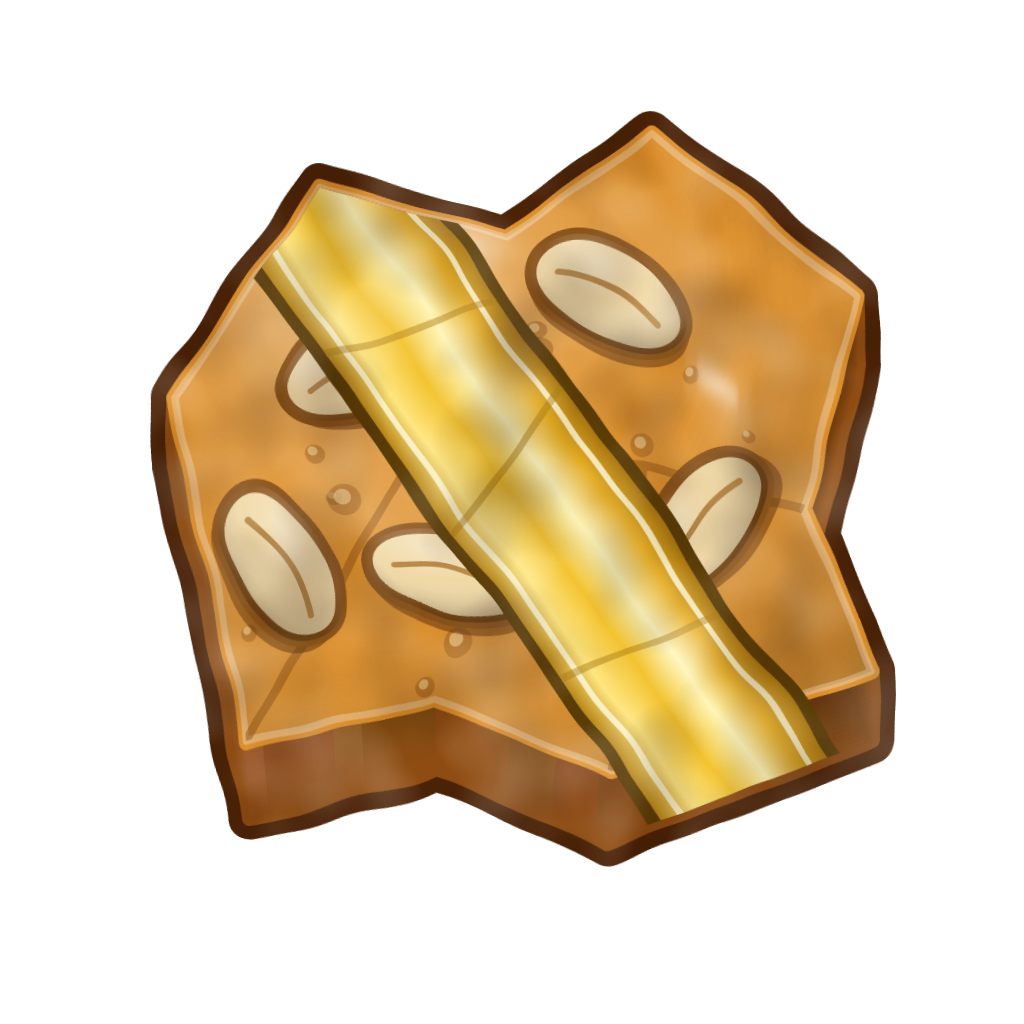
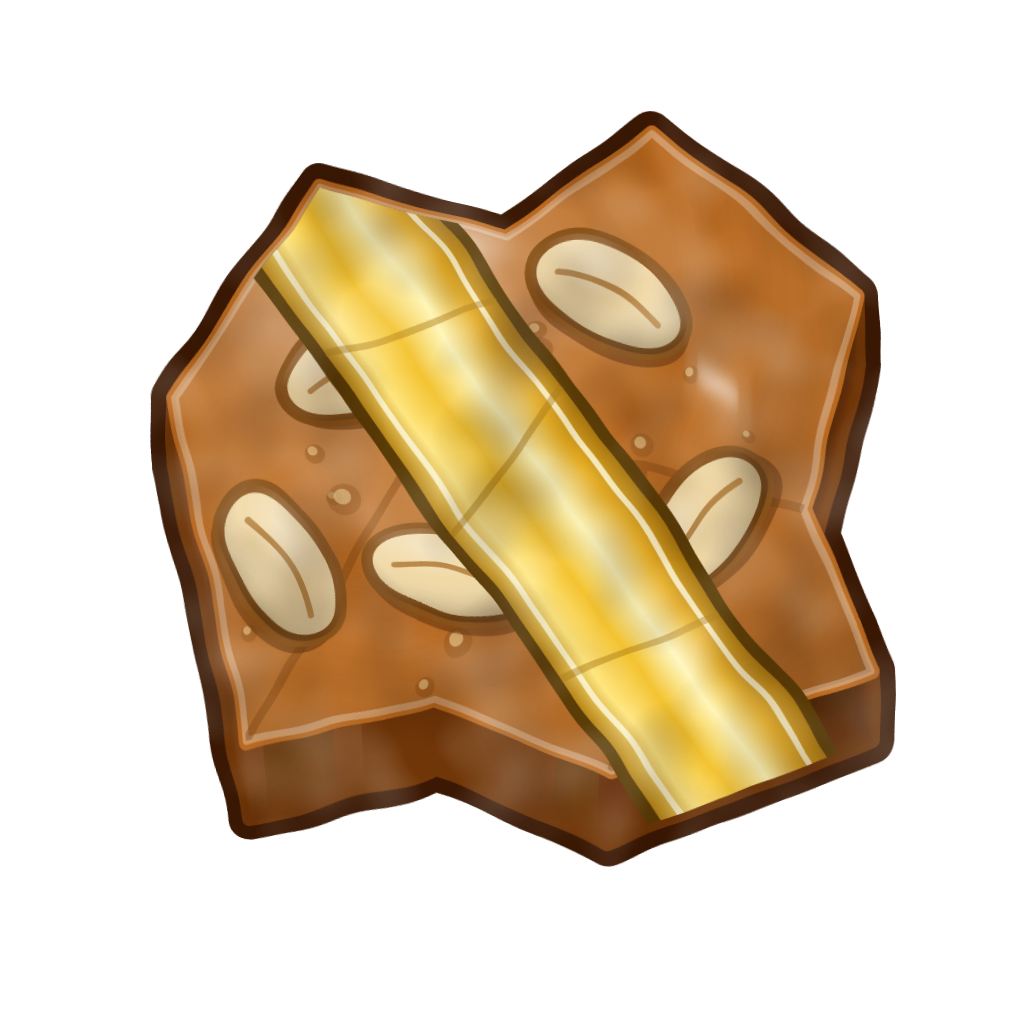
Blitzrunde, geführte erste Züge, Vorschau in der Bestellleiste, Prompts für gemalte Pralinen
- Blitzrunde: 30 Züge auf Punkte mit eigenem Bestwert, neben der Tagesschachtel
- Neue Spieler: vier Schritte am Spielfeld statt Regel-Dialog
- Beim Ziehen zeigt die Bestellleiste, was der Zug bringt; Lieferung lässt
  die Leiste aufleuchten; Vibration steigt mit der Serie
- Krokant dunkler als Karamell, Eiskonfekt-Zahl und Teile in der Ablage größer
- art/PROMPTS.md: Stil-Vorspann und Motive für einen Bildgenerator

Zuglimit und P(s) bleiben unverändert (Begründung in docs/playtest).

Claude-Session: https://claude.ai/code/session_01YDDbMkut7raAPq9iGCkgbn

diff --git a/index.html b/index.html
@@ -79,7 +79,7 @@ header{margin-top:auto;width:var(--bw);display:flex;justify-content:space-betwee
   background:radial-gradient(circle,rgba(16,42,74,.62) 0 21%,rgba(16,42,74,0) 34%);text-shadow:0 1px 2px #06182e,0 0 5px #06182e}
 .prl.hot{animation:hot .7s infinite}
 @keyframes hot{50%{filter:drop-shadow(0 0 2px #ff2f6e) drop-shadow(0 0 6px #ff4f84)}}
-.piece .prl[data-t]::before,.demo .prl[data-t]::before{font-size:calc(var(--bw)*.03)}
+.piece .prl[data-t]::before,.demo .prl[data-t]::before{font-size:calc(var(--bw)*.038);background:radial-gradient(circle,rgba(16,42,74,.7) 0 30%,rgba(16,42,74,0) 46%)}
 #drag .prl[data-t]::before{font-size:calc(var(--bw)*.052)}
 .ghost{opacity:.6}
 .pop{animation:pop .38s ease-out forwards}
@@ -89,7 +89,7 @@ header{margin-top:auto;width:var(--bw);display:flex;justify-content:space-betwee
 .melt{animation:mlt .5s ease-out}
 @keyframes mlt{0%{transform:scale(1.5);filter:brightness(2)}100%{transform:scale(1);filter:brightness(1)}}
 /* Ablage + Teile */
-.tray{width:var(--bw);flex:0 1 calc(var(--bw)*.42);min-height:calc(var(--bw)*.3);display:flex;align-items:stretch;margin-top:12px;gap:4px}
+.tray{width:var(--bw);flex:0 1 calc(var(--bw)*.48);min-height:calc(var(--bw)*.3);display:flex;align-items:stretch;margin-top:12px;gap:4px}
 .slot{flex:1;position:relative;display:flex;align-items:center;justify-content:center;cursor:grab;border-radius:16px}
 .slot.hold{background:rgba(255,250,244,.7);box-shadow:inset 0 0 0 2px var(--line);margin-right:4px}
 .slot.hold::before{content:"Ablage";position:absolute;top:5px;left:0;right:0;text-align:center;font-size:11px;letter-spacing:1px;text-transform:uppercase;color:var(--mut);font-weight:800}
@@ -105,6 +105,16 @@ header{margin-top:auto;width:var(--bw);display:flex;justify-content:space-betwee
 .slot.nofit.rotfit .piece{opacity:.8;filter:grayscale(.35)}
 .slot.rotfit::after{content:"↻";position:absolute;right:4px;bottom:4px;width:24px;height:24px;border-radius:50%;background:var(--rose);color:#fff;font-size:15px;font-weight:900;display:flex;align-items:center;justify-content:center;box-shadow:0 2px 0 #a8355a;animation:bmp .9s infinite;pointer-events:none}
 .slot.dragging::after{display:none}
+/* Vorschau in der Bestellleiste: was der Zug unter dem Finger bringt */
+.gl .pv{font-style:normal;font-size:13px;font-weight:900;color:#fff;background:var(--ok);border-radius:9px;padding:1px 6px;margin-left:2px}
+#order.deliv{animation:dlv .9s ease-out}
+@keyframes dlv{0%{box-shadow:0 2px 0 var(--line)}25%{transform:scale(1.04);box-shadow:0 0 0 4px var(--gold),0 0 22px var(--gold)}100%{box-shadow:0 2px 0 var(--line)}}
+/* Geführte erste Züge: das Element, um das es gerade geht, pulsiert */
+.coach{animation:coach 1.2s ease-in-out infinite}
+#tray.coach{border-radius:18px}
+@keyframes coach{50%{box-shadow:0 0 0 3px var(--rose),0 0 16px var(--rose)}}
+.hint.big{font-size:15px;line-height:1.3;color:var(--ink)}
+@media (max-height:600px){.card{padding:14px 16px}.btn{padding:10px 14px;margin-top:8px}.card .t{font-size:26px}}
 @media (max-height:660px){.hero{display:none}}
 .piece.spin{animation:spin .22s ease-out}
 @keyframes spin{from{transform:rotate(-90deg) scale(.8)}to{transform:none}}
@@ -153,7 +163,7 @@ header{margin-top:auto;width:var(--bw);display:flex;justify-content:space-betwee
 .qs h4{margin:0 0 3px;font-size:11px;letter-spacing:1.5px;text-transform:uppercase;color:var(--mut);display:flex;justify-content:space-between}
 .qs h4 b{color:var(--goldt);font-size:13px;letter-spacing:0}
 .q{display:flex;justify-content:space-between;gap:8px;padding:3px 0}.q b{white-space:nowrap}.q.ok{color:var(--ok)}
-.dots{letter-spacing:3px;color:var(--gold)}
+.dots{letter-spacing:1px;color:var(--gold)}
 .lbl{font-size:12px;color:var(--mut);font-weight:800}
 .over.full{background:var(--cream);align-items:flex-start;overflow:auto;z-index:50;touch-action:pan-y}
 .over.full .card{box-shadow:none;background:none;max-height:none;margin:auto;animation:none;padding:14px 8px}
@@ -184,7 +194,7 @@ textarea{font:inherit;font-size:13px;width:100%;height:64px;border:2px solid var
 <button id="upd" type="button" hidden>Neue Version – tippen zum Aktualisieren</button>
 <script>
 (function(){
-const N=8,R=8,TIMER=9,MAXROT=9;   // N Spalten, R Zeilen
+const N=8,R=8,TIMER=9,MAXROT=9,BLITZ=30;   // N Spalten, R Zeilen
 document.documentElement.style.setProperty('--rows',R);document.documentElement.style.setProperty('--rr',R/N);
 const RAW=["X","XX","X\nX","XXX","X\nX\nX","XXXX","X\nX\nX\nX","XXXXX","X\nX\nX\nX\nX","XX\nXX","XXX\nXXX\nXXX",
 "XX\nX.","XX\n.X","X.\nXX",".X\nXX","XXX\nX..","XXX\n..X","X..\nXXX","..X\nXXX","X.\nX.\nXX",".X\n.X\nXX","XX\nX.\nX.","XX\n.X\n.X",
@@ -203,7 +213,7 @@ const cellEls=[];for(let i=0;i<N*R;i++){const d=document.createElement('div');d.
 
 // ===== Speicher =====
 function ls(k,v){try{if(v===undefined)return JSON.parse(localStorage.getItem(k));if(v===null)localStorage.removeItem(k);else localStorage.setItem(k,JSON.stringify(v))}catch(e){return null}}
-const M=Object.assign({bestStage:1,theme:0,mute:false,seenHelp:false,games:0,daily:{d:'',best:0},streak:{d:'',n:0},ach:{},stars:0,cup:0,q:{d:'',p:{},got:[0,0,0],all:0},pt:true},ls('cs_meta')||{});
+const M=Object.assign({bestStage:1,theme:0,mute:false,seenHelp:false,games:0,daily:{d:'',best:0},streak:{d:'',n:0},ach:{},stars:0,cup:0,blitz:0,tut:-1,q:{d:'',p:{},got:[0,0,0],all:0},pt:true},ls('cs_meta')||{});
 let best=parseInt(ls('cs_best'))||0;
 function saveMeta(){ls('cs_meta',M)}
 function saveRun(){if(G&&!G.over)ls('cs_run_'+G.mode,G)}
@@ -244,7 +254,7 @@ function ptExport(){ptFlush();const text=PTL.map(x=>JSON.stringify(x)).join('\n'
   const a=document.createElement('a');a.href=URL.createObjectURL(new Blob([text],{type:'text/plain'}));a.download=name;a.click()}
 function endRun(){pt('over',{mode:G.mode,score:G.score,stage:G.stage,moves:G.stats.moves,why:G.over,sec:G.ts?Math.round((Date.now()-G.ts)/1000):0});qTick({games:1});ptFlush()}
 // Spielstand als Code mitnehmen (Browser → installierte App; auf dem iPhone haben beide getrennte Speicher)
-const SAVE_KEYS=['cs_best','cs_meta','cs_run_saison','cs_run_tag'];
+const SAVE_KEYS=['cs_best','cs_meta','cs_run_saison','cs_run_tag','cs_run_blitz'];
 function saveCode(){saveRun();const o={};SAVE_KEYS.forEach(k=>{try{const v=localStorage.getItem(k);if(v!=null)o[k]=v}catch(e){}});return'TB1.'+btoa(unescape(encodeURIComponent(JSON.stringify(o))))}
 function loadCode(c){try{c=String(c).trim();if(c.slice(0,4)!=='TB1.')return false;const o=JSON.parse(decodeURIComponent(escape(atob(c.slice(4)))));let n=0;
   Object.keys(o).forEach(k=>{if(SAVE_KEYS.includes(k)){JSON.parse(o[k]);localStorage.setItem(k,o[k]);n++}});return n>0}catch(e){return false}}
@@ -300,10 +310,10 @@ function isDead(){const tr=G.tray.filter(Boolean),all=G.hold?tr.concat([G.hold])
 
 function startGame(mode){const d=today();
   G={mode,day:d,rs:mode==='tag'?(parseInt(d.replace(/-/g,''))*2654435761)|0:(Math.random()*2**32)|0,board:Array(N*R).fill(null),tray:[],hold:null,score:0,streak:0,stage:1,hearts:3,rot:3,order:null,
-    stats:{moves:0,lines:0,pure:0,orders:0,melted:0,saved:0},over:false,ts:Date.now()};
+    stats:{moves:0,lines:0,pure:0,orders:0,melted:0,saved:0},over:false,ts:Date.now()};if(mode==='blitz')G.bl=BLITZ;
   newOrder();G.tray=newTray();M.games++;saveMeta();saveRun();pt('start',{mode});enter()}
 function enter(){$('menu').classList.add('hidden');$('over').classList.add('hidden');document.body.classList.add('ingame');
-  $('hint').style.opacity=G.stats.moves<4?1:0;$('hint').innerHTML='Teile in die Schachtel ziehen · <b>Antippen</b> dreht ein Teil (↻)';stuckShown=false;renderAll()}
+  $('hint').style.opacity=G.stats.moves<4?1:0;$('hint').innerHTML='Teile in die Schachtel ziehen · <b>Antippen</b> dreht ein Teil (↻)';stuckShown=false;$('hint').classList.remove('big');[$('tray'),$('order'),$('box')].forEach(e=>e.classList.remove('coach'));renderAll();if(M.tut>=0&&M.tut<4)coach()}
 
 function place(i,r,c){const pc=i===3?G.hold:G.tray[i],placed=new Set(),b=G.board;
   pc.cells.forEach(([dr,dc],k)=>{const idx=(r+dr)*N+c+dc;b[idx]=k===pc.tm?{c:pc.c,t:TIMER}:{c:pc.c};placed.add(idx)});
@@ -321,7 +331,7 @@ function place(i,r,c){const pc=i===3?G.hold:G.tray[i],placed=new Set(),b=G.board
     if(pure)msgs.push(['zählt doppelt','sm']);else if(saved)msgs.push(['Eiskonfekt gerettet','sm']);
     if(n>=3&&G.rot<MAXROT){G.rot++;msgs.push(['+1 ↻','sm'])}
     if(b.every(v=>v==null)){empty=true;pts+=150;msgs.push(['Alles verpackt! +150','sm'])}
-    sfx('clear',G.streak+n);buzz(n>1?[20,40,20]:20)}
+    sfx('clear',G.streak+n);buzz(n>1||G.streak>2?[20,40,20,40,Math.min(20+10*G.streak,60)]:G.streak>1?[20,40,20]:20)}
   else{G.streak=0;sfx('plop');buzz(8)}
   if(melted.size){msgs.push(['Geschmolzen!','sm bad']);sfx('bad');shake()}
   G.order.goals.forEach(g=>{if(gain[g.c])g.have+=gain[g.c]});G.order.left--;
@@ -333,17 +343,19 @@ function place(i,r,c){const pc=i===3?G.hold:G.tray[i],placed=new Set(),b=G.board
   else if(G.order.left<=0){pt('order',{ok:0,stage:G.stage});G.hearts--;msgs.push(['Bestellung geplatzt! −1 ♥','sm bad']);sfx('bad');shake();if(G.hearts>0)newOrder()}
   setScore(G.score+pts,true);checkAch(n,empty);if(G.mode==='tag')bumpStreak();qTick({lines:n,pure,orders:conf?1:0,multi:n>=2?1:0});
   if(G.tray.every(t=>!t))G.tray=newTray();
-  if(G.hearts<=0)G.over='herz';else if(isDead())G.over='voll';
-  if(G.stats.moves>=4)$('hint').style.opacity=0;
+  if(G.mode==='blitz')G.bl--;
+  if(G.hearts<=0)G.over='herz';else if(G.mode==='blitz'&&G.bl<=0)G.over='zeit';else if(isDead())G.over='voll';
+  if(G.stats.moves>=4&&!(M.tut>=0&&M.tut<4))$('hint').style.opacity=0;
   renderBoard(cleared,placed,melted,newBlk);renderTray();renderOrder(gain);
-  if(FX){cleared.forEach((v,k)=>burstCell(k,v));msgs.forEach(([t,cls],q)=>setTimeout(()=>toast(t,cls),q*260));if(conf)confetti()}
+  if(FX){cleared.forEach((v,k)=>burstCell(k,v));msgs.forEach(([t,cls],q)=>setTimeout(()=>toast(t,cls),q*260));if(conf){confetti();const o=$('order');o.classList.remove('deliv');void o.offsetWidth;o.classList.add('deliv');buzz([30,50,30,50,60])}}
+  $('box').classList.remove('coach');if(n)coach('line');coach('place');
   if(G.over){ls('cs_run_'+G.mode,null);endRun();setTimeout(showOver,FX?900:0)}else saveRun()}
 function toHold(i){const pc=G.tray[i];G.tray[i]=G.hold;G.hold=pc;sfx('pick');pt('hold');
   if(G.tray.every(t=>!t))G.tray=newTray();
   if(isDead()){G.over='voll';ls('cs_run_'+G.mode,null);endRun();setTimeout(showOver,700)}else saveRun();renderTray()}
 function rotate(i){const pc=i===3?G.hold:G.tray[i];if(!pc)return;const r=rotated(pc);if(key(r)===key(pc))return;
   if(G.rot<=0){toast('Keine Drehung mehr','sm bad');return sfx('bad')}
-  G.rot--;if(i===3)G.hold=r;else G.tray[i]=r;sfx('pick');pt('rot');saveRun();renderTray();renderOrder();
+  G.rot--;if(i===3)G.hold=r;else G.tray[i]=r;sfx('pick');pt('rot');coach('rot');saveRun();renderTray();renderOrder();
   const el=slotEls[i].querySelector('.piece');if(el)el.classList.add('spin')}
 
 // ===== Darstellung =====
@@ -355,19 +367,33 @@ function renderBoard(cleared,placed,melted,newBlk){for(let i=0;i<N*R;i++){const 
 function makePiece(pc,pitch,size){let h='<div class="piece" style="width:'+((pc.w-1)*pitch+size)+'px;height:'+((pc.h-1)*pitch+size)+'px">';
   pc.cells.forEach(([r,c],k)=>h+='<div style="left:'+c*pitch+'px;top:'+r*pitch+'px;width:'+size+'px;height:'+size+'px">'+node(k===pc.tm?{c:pc.c,t:TIMER}:{c:pc.c})+'</div>');return h+'</div>'}
 function renderTray(){const m=metrics(),sw=slotEls[0].getBoundingClientRect().width;slotEls.forEach((s,i)=>{const pc=i===3?G.hold:G.tray[i];s.classList.remove('nofit','rotfit','dragging','tgt');
-  const k=pc?Math.min(.7,sw*.94/(Math.max(pc.w,pc.h)*m.pitch)):0;   // kleine Teile größer zeigen, lange passen trotzdem in den Platz
+  const k=pc?Math.min(.8,sw*.94/(Math.max(pc.w,pc.h)*m.pitch)):0;   // kleine Teile größer zeigen, lange passen trotzdem in den Platz
   s.innerHTML=pc?makePiece(pc,m.pitch*k,m.size*k):'';if(pc&&!canFit(pc)){s.classList.add('nofit');if(G.rot>0&&!G.over&&canFitRot(pc))s.classList.add('rotfit')}});stuckHint()}
+// Geführte erste Züge statt Regel-Dialog: 0 legen · 1 drehen · 2 Reihe verpacken · 3 Bestellung · 4 fertig
+const COACH=['<b>Zieh ein Teil</b> in die Schachtel','<b>Tippe ein Teil an</b> – es dreht sich (kostet eine Drehung ↻)','Fülle eine <b>ganze Reihe</b> oder Spalte – sie wird verpackt','Oben steht die <b>Bestellung</b>: Sorten sammeln, bevor die Züge ausgehen'];
+let coachAt=0;
+function coach(ev){if(M.tut<0||M.tut>3)return;const was=M.tut;
+  if(M.tut===0&&ev==='place')M.tut=1;
+  else if(M.tut===1&&(ev==='rot'||(ev==='place'&&G.stats.moves-coachAt>=2)))M.tut=2;
+  else if(M.tut===2&&ev==='line')M.tut=3;
+  else if(M.tut===3&&ev==='place'&&G.stats.moves-coachAt>=3)M.tut=4;
+  if(M.tut!==was){coachAt=G.stats.moves;if(M.tut===4)M.seenHelp=true;saveMeta();pt('tut',{s:M.tut})}
+  const h=$('hint'),t=M.tut;[$('tray'),$('order')].forEach(e=>e.classList.remove('coach'));
+  if(t>3){h.classList.remove('big');h.style.opacity=0;return}
+  if(!stuckShown){h.innerHTML=COACH[t];h.classList.add('big');h.style.opacity=1}
+  (t===3?$('order'):t<2?$('tray'):$('box')).classList.add('coach');if(t===2)$('tray').classList.remove('coach')}
 // Passt kein Teil so, wie es liegt, sagt der Hinweis, was noch geht (drehen oder Ablage) – sonst wirkt das Spiel eingefroren.
 let stuckShown=false;
 function stuckHint(){const h=$('hint'),ps=G.tray.concat([G.hold]).filter(Boolean),st=!G.over&&ps.length>0&&!ps.some(canFit);
-  if(st){const rot=G.rot>0&&ps.some(canFitRot);h.innerHTML=rot?'Kein Teil passt so · ein Teil mit ↻ <b>antippen</b> dreht es (↻'+G.rot+')':'Kein Teil passt · das letzte Teil in die <b>Ablage</b> ziehen';h.style.opacity=1;if(!stuckShown)pt('stuck',{rot:G.rot,stage:G.stage});stuckShown=true}
-  else if(stuckShown){h.style.opacity=0;stuckShown=false}}
-function renderOrder(gain){const o=G.order;$('hearts').innerHTML='♥'.repeat(Math.max(0,G.hearts))+'<i>'+'♥'.repeat(3-Math.max(0,G.hearts))+'</i>';
-  $('goals').innerHTML=o.goals.map(g=>{const d=g.have>=g.need;return'<div class="gl'+(d?' done':'')+(gain&&gain[g.c]?' bump2':'')+'" title="'+NAMES[g.c]+'"><span class="ic">'+node({c:g.c})+'</span>'+(d?'✓':g.need-g.have)+'</div>'}).join('');
+  if(st){const rot=G.rot>0&&ps.some(canFitRot);h.innerHTML=rot?'Kein Teil passt so · ein Teil mit ↻ <b>antippen</b> dreht es (↻'+G.rot+')':'Kein Teil passt · das letzte Teil in die <b>Ablage</b> ziehen';h.classList.remove('big');h.style.opacity=1;if(!stuckShown)pt('stuck',{rot:G.rot,stage:G.stage});stuckShown=true}
+  else if(stuckShown){h.style.opacity=0;stuckShown=false;coach()}}
+function renderOrder(gain,pv){const o=G.order;$('hearts').innerHTML='♥'.repeat(Math.max(0,G.hearts))+'<i>'+'♥'.repeat(3-Math.max(0,G.hearts))+'</i>';
+  $('goals').innerHTML=o.goals.map(g=>{const d=g.have>=g.need;return'<div class="gl'+(d?' done':'')+(gain&&gain[g.c]?' bump2':'')+'" title="'+NAMES[g.c]+'"><span class="ic">'+node({c:g.c})+'</span>'+(d?'✓':g.need-g.have)+(pv&&pv[g.c]&&!d?'<i class="pv">−'+Math.min(pv[g.c],g.need-g.have)+'</i>':'')+'</div>'}).join('');
   $('mvN').textContent=Math.max(0,o.left);$('mv').classList.toggle('low',o.left<=3);$('rotN').textContent='↻'+G.rot;
-  $('stageT').textContent='Bestellung '+G.stage;$('sub').textContent=G.over==='x'?'Truffle Box':(G.mode==='tag'?'Tagesschachtel · ':'')+CUST[o.cust]}
+  $('stageT').textContent='Bestellung '+G.stage;$('sub').textContent=G.over==='x'?'Truffle Box':G.mode==='blitz'?'Blitzrunde · noch '+Math.max(0,G.bl)+(G.bl===1?' Zug':' Züge'):(G.mode==='tag'?'Tagesschachtel · ':'')+CUST[o.cust]}
 function setScore(v,bump){G.score=v;const e=$('score');e.textContent=v;
   if(G.mode==='tag'){if(M.daily.d!==G.day)M.daily={d:G.day,best:0};if(v>M.daily.best){M.daily.best=v;saveMeta()}$('best').textContent='Tagesbestwert '+M.daily.best}
+  else if(G.mode==='blitz'){if(v>(M.blitz||0)){M.blitz=v;saveMeta()}$('best').textContent='Blitz-Bestwert '+M.blitz}
   else{if(v>best){best=v;ls('cs_best',best)}$('best').textContent='Bestwert '+best}
   if(bump&&FX){e.classList.add('bump');setTimeout(()=>e.classList.remove('bump'),150)}}
 function renderAll(){applyTheme();renderBoard();renderTray();renderOrder();setScore(G.score)}
@@ -378,7 +404,7 @@ function shake(){if(!FX)return;boxEl.classList.remove('shake');void boxEl.offset
 function burst(x,y,col,n){for(let k=0;k<n;k++){const e=document.createElement('i');e.className='pt';e.style.background=col;e.style.left=x+'px';e.style.top=y+'px';
   const a=Math.random()*Math.PI*2,v=30+Math.random()*80;e.style.setProperty('--dx',Math.cos(a)*v+'px');e.style.setProperty('--dy',(Math.sin(a)*v-30)+'px');document.body.appendChild(e);setTimeout(()=>e.remove(),850)}}
 const PCOL=['#6e4630','#b9733d','#f3e8d0','#f0437a','#8fb842','#f2a730'];   // Hauptfarben der Sprites
-function burstCell(k,v){const r=cellEls[k].getBoundingClientRect();burst(r.left+r.width/2,r.top+r.height/2,v.b?'#dd8f2a':PCOL[v.c],3)}
+function burstCell(k,v){const r=cellEls[k].getBoundingClientRect();burst(r.left+r.width/2,r.top+r.height/2,v.b?'#b9691f':PCOL[v.c],3)}
 function confetti(){for(let k=0;k<40;k++)setTimeout(()=>burst(innerWidth*Math.random(),innerHeight*.35*Math.random(),PCOL[(k%4)+2],1),k*14)}
 function buzz(ms){if(!FX)return;try{navigator.vibrate&&navigator.vibrate(ms)}catch(e){}}
 
@@ -395,7 +421,11 @@ function sfx(k,x){if(k==='pick')tone(700,.06,'sine',.08,0,1000);
 // ===== Ziehen, Drehen, Ablegen =====
 function preview(pc,r,c){renderBoard();const sim=G.board.slice();
   for(const[dr,dc]of pc.cells){const idx=(r+dr)*N+c+dc;sim[idx]={c:pc.c};cellEls[idx].innerHTML=node({c:pc.c},' ghost')}
-  fullLines(sim).forEach(L=>{const p=isPure(sim,L);L.forEach(i=>{cellEls[i].classList.add('hl');if(p)cellEls[i].classList.add('pure')})})}
+  const L=fullLines(sim),pv={};L.forEach(l=>{const p=isPure(sim,l);if(p)pv[sim[l[0]].c]=(pv[sim[l[0]].c]||0)+l.length;l.forEach(i=>{cellEls[i].classList.add('hl');if(p)cellEls[i].classList.add('pure')})});
+  new Set(L.flat()).forEach(k=>{const v=sim[k];if(v.c!=null)pv[v.c]=(pv[v.c]||0)+1});
+  pvOn=L.length>0;if(pvOn||pvWas)renderOrder(null,pv);pvWas=pvOn}
+let pvOn=false,pvWas=false;
+function clearPv(){if(pvWas){pvWas=false;renderOrder()}}
 slotEls.forEach((slot,i)=>slot.addEventListener('pointerdown',e=>{const pc=i===3?G&&G.hold:G&&G.tray[i];
   if(!G||G.over||drag||!pc)return;e.preventDefault();ac();
   const m=metrics(),el=document.createElement('div');el.id='drag';el.innerHTML=makePiece(pc,m.pitch,m.size);document.body.appendChild(el);slot.classList.add('dragging');
@@ -408,12 +438,12 @@ function move(x,y){const d=drag,left=x-d.w/2,top=y-d.h-d.lift;d.el.style.transfo
   // Solange das Teil selbst noch ganz in der Schachtel liegt, zählt deshalb die Schachtel, nicht die Ablage.
   const hr=holdEl.getBoundingClientRect(),onBoard=r>=0&&c>=0&&r<=R-d.pc.h&&c<=N-d.pc.w,oh=d.i!==3&&!onBoard&&x>=hr.left&&x<=hr.right&&y>=hr.top-10&&y<=hr.bottom+40;
   if(oh!==d.hold){d.hold=oh;holdEl.classList.toggle('tgt',oh)}
-  if(oh){if(d.target){d.target=null;renderBoard()}return}
+  if(oh){if(d.target){d.target=null;renderBoard();clearPv()}return}
   if(d.target&&d.target.r===r&&d.target.c===c)return;
-  if(fits(d.pc,r,c)){d.target={r,c};preview(d.pc,r,c)}else if(d.target){d.target=null;renderBoard()}}
+  if(fits(d.pc,r,c)){d.target={r,c};preview(d.pc,r,c)}else if(d.target){d.target=null;renderBoard();clearPv()}}
 window.addEventListener('pointermove',e=>{if(drag){e.preventDefault();move(e.clientX,e.clientY)}},{passive:false});
 function end(cancel){if(!drag)return;const d=drag;drag=null;d.el.remove();slotEls[d.i].classList.remove('dragging');holdEl.classList.remove('tgt');
-  if(cancel)return renderBoard();
+  clearPv();if(cancel)return renderBoard();
   if(!d.moved){if(performance.now()-d.t0<450)rotate(d.i);return}
   if(d.hold){renderBoard();return toHold(d.i)}
   if(d.target)place(d.i,d.target.r,d.target.c);else renderBoard()}
@@ -422,13 +452,14 @@ window.addEventListener('pointercancel',()=>end(true));
 window.addEventListener('resize',()=>{if(G&&!drag)renderTray()});
 
 // ===== Menü & Dialoge =====
-function showMenu(){document.body.classList.remove('ingame');const run=savedRun('saison'),tag=savedRun('tag'),d=today(),db=M.daily.d===d?M.daily.best:0;
+function showMenu(){document.body.classList.remove('ingame');const run=savedRun('saison'),tag=savedRun('tag'),blz=savedRun('blitz'),d=today(),db=M.daily.d===d?M.daily.best:0;
   const played=M.streak.d===d,pos=roundPos(),nextPos=played?pos:pos%7+1,got=ACH.filter(a=>M.ach[a[0]]).length,st=M.stars||0;
   const dots='<span class="dots">'+'●'.repeat(played?pos:pos%7)+'○'.repeat(7-(played?pos:pos%7))+'</span>';
   $('menuCard').innerHTML='<div class="hero">'+[0,3,5].map(c=>'<span class="hb">'+node({c})+'</span>').join('')+'</div><div class="t">Truffle Box</div><div class="sub" style="margin-top:4px">A Chocolatier\'s Puzzle</div><div class="b" style="margin-top:6px">'+rankOf(M.bestStage)+' · Bestwert '+best+' · Bestellung '+M.bestStage+'</div>'+rankProg()+
    (run?'<button class="btn rose" data-a="cont">Weiterspielen<small>Bestellung '+run.stage+' · '+run.score+' Punkte</small></button>':'')+
    '<button class="btn'+(run?'':' rose')+'" data-a="new">Neue Saison</button>'+
-   '<button class="btn" data-a="tag">Tagesschachtel<small>'+(tag?'fortsetzen · '+tag.score+' Punkte':db?'heute '+db+' Punkte – noch einmal':played?'jeden Tag dieselben Teile für alle':'heute: Tag '+nextPos+' von 7 · '+(nextPos===7?'+5 ★':'+1 ★'))+'</small><small>'+dots+'</small></button>'+
+   '<div class="mini"><button class="btn" data-a="tag" style="font-size:16px">Tagesschachtel<small>'+(tag?'weiter · '+tag.score+' P.':db?'heute '+db+' P.':played?'für alle gleich':'Tag '+nextPos+' von 7 · '+(nextPos===7?'+5 ★':'+1 ★'))+'</small><small>'+dots+'</small></button>'+
+   '<button class="btn" data-a="blitz" style="font-size:16px">Blitzrunde<small>'+(blz?'weiter · '+blz.score+' P.':BLITZ+' Züge auf Punkte')+'</small><small>Bestwert '+(M.blitz||0)+'</small></button></div>'+
    questHtml()+
    '<div class="mini"><button class="btn gh" data-a="ach">Auszeichnungen<small>'+got+' von '+ACH.length+'</small></button><button class="btn gh" data-a="help">Regeln<small>So wird gespielt</small></button>'+
    '<button class="btn gh" data-a="look">Aussehen<small>Schachteln · Förmchen</small></button><button class="btn gh" data-a="more">Mehr<small>Ton · App · Spielstand</small></button></div>';
@@ -492,12 +523,12 @@ function showHelp(){const ic=(v)=>'<span class="demo">'+node(v)+'</span>';
 function showAch(){$('helpCard').innerHTML='<div class="t">Auszeichnungen</div><div class="b" style="margin-bottom:6px">'+ACH.filter(a=>M.ach[a[0]]).length+' von '+ACH.length+'</div>'+
    ACH.map(a=>'<div class="ach'+(M.ach[a[0]]?' on':'')+'"><span class="st">★</span><span><b>'+a[1]+'</b>'+a[2]+'</span></div>').join('')+'<button class="btn rose" data-a="achok">Schließen</button>';
   $('help').classList.remove('hidden');$('helpCard').scrollTop=0}
-function shareText(){return'Truffle Box'+(G.mode==='tag'?' · Tagesschachtel '+G.day.split('-').reverse().join('.'):'')+': '+G.score+' Punkte, Bestellung '+G.stage+''+' – '+location.origin+location.pathname}
-function showOver(){document.body.classList.remove('ingame');const s=G.stats,tag=G.mode==='tag',top=tag?M.daily.best:best;
-  $('overCard').innerHTML='<div class="sub">'+(tag?'Tagesschachtel':'Saison')+'</div><div class="t">'+(G.over==='herz'?'Kundschaft verärgert!':'Schachtel voll!')+'</div>'+
-   '<div class="s">'+G.score+'</div><div class="b">'+(G.score>=top&&G.score>0?'Neuer '+(tag?'Tagesbestwert':'Bestwert')+'!':(tag?'Tagesbestwert ':'Bestwert ')+top)+'</div>'+
-   (G.score<top&&G.score>=top*.75?'<div class="b" style="color:var(--roset);margin-top:6px">Nur '+(top-G.score)+' Punkte bis zum '+(tag?'Tagesbestwert':'Bestwert')+' – noch eine?</div>':'')+
-   '<button class="btn rose" data-a="again">Neue Schachtel</button>'+
+function shareText(){return'Truffle Box'+(G.mode==='blitz'?' · Blitzrunde':G.mode==='tag'?' · Tagesschachtel '+G.day.split('-').reverse().join('.'):'')+': '+G.score+' Punkte, Bestellung '+G.stage+''+' – '+location.origin+location.pathname}
+function showOver(){document.body.classList.remove('ingame');const s=G.stats,tag=G.mode==='tag',bz=G.mode==='blitz',top=tag?M.daily.best:bz?(M.blitz||0):best,bn=tag?'Tagesbestwert':bz?'Blitz-Bestwert':'Bestwert';
+  $('overCard').innerHTML='<div class="sub">'+(tag?'Tagesschachtel':bz?'Blitzrunde':'Saison')+'</div><div class="t">'+(G.over==='herz'?'Kundschaft verärgert!':G.over==='zeit'?'Blitzrunde vorbei!':'Schachtel voll!')+'</div>'+
+   '<div class="s">'+G.score+'</div><div class="b">'+(G.score>=top&&G.score>0?'Neuer '+bn+'!':bn+' '+top)+'</div>'+
+   (G.score<top&&G.score>=top*.75?'<div class="b" style="color:var(--roset);margin-top:6px">Nur '+(top-G.score)+' Punkte bis zum '+bn+' – noch eine?</div>':'')+
+   '<button class="btn rose" data-a="again">'+(bz?'Noch eine Blitzrunde':'Neue Schachtel')+'</button>'+
    '<div class="rows"><div><span>Erreicht</span><b>Bestellung '+G.stage+' · '+s.orders+' geliefert</b></div><div><span>Reihen verpackt</span><b>'+s.lines+(s.pure?' · '+s.pure+' sortenrein':'')+'</b></div><div><span>Rang</span><b>'+rankOf(M.bestStage)+'</b></div></div>'+
    rankProg()+questHtml()+(tag?'<div class="lbl" style="margin-top:8px">Tagesrunde: Tag '+roundPos()+' von 7 · morgen wartet die nächste Tagesschachtel</div>':'')+
    '<div class="mini"><button class="btn gh" data-a="share">Ergebnis teilen</button><button class="btn gh" data-a="menu">Menü</button></div>';
@@ -506,6 +537,7 @@ document.addEventListener('click',e=>{const a=e.target.closest('[data-a]');if(!a
   if(k==='cont'){G=savedRun('saison');enter()}
   else if(k==='new'){if(savedRun('saison')&&!a.dataset.sure){a.dataset.sure=1;a.innerHTML='Wirklich neu beginnen?<small>Die laufende Saison geht verloren</small>';return}startGame('saison');firstHelp()}
   else if(k==='tag'){const r=savedRun('tag');if(r){G=r;enter()}else startGame('tag');firstHelp()}
+  else if(k==='blitz'){const r=savedRun('blitz');if(r){G=r;enter()}else startGame('blitz');firstHelp()}
   else if(k==='th'){const i=+a.dataset.i;if(M.bestStage<THEMES[i].at)return;M.theme=i;saveMeta();applyTheme();showLook()}
   else if(k==='mute'){M.mute=!M.mute;saveMeta();showMore()}
   else if(k==='look')showLook();
@@ -530,7 +562,7 @@ document.addEventListener('click',e=>{const a=e.target.closest('[data-a]');if(!a
   else if(k==='helpok'){$('help').classList.add('hidden');M.seenHelp=true;saveMeta()}
   else if(k==='again')startGame(G.mode);
   else if(k==='menu'){$('over').classList.add('hidden');showMenu()}});
-function firstHelp(){if(!M.seenHelp)showHelp()}
+function firstHelp(){if(M.tut<0)M.tut=M.seenHelp?4:0;coach()}
 $('menuBtn').addEventListener('click',()=>{if(drag)return;saveRun();showMenu()});
 document.addEventListener('visibilitychange',()=>{if(document.hidden){saveRun();ptFlush()}});
 // Kein Markieren, kein Kontextmenü, keine Vorschau, kein Zoomen – außer im Eingabefeld für den Spielstand-Code

diff --git a/art/PROMPTS.md b/art/PROMPTS.md
@@ -1,0 +1,60 @@
+# Prompts für gemalte Pralinen
+
+Zehn Bilder, PNG, quadratisch, mindestens 1024×1024. Alle außer `icon.png` mit **transparentem
+Hintergrund**. Fertige Dateien unter genau diesen Namen nach `art/source/` legen, dann:
+
+```sh
+node tools/make-sprites.mjs && node tools/make-icons.mjs && node tools/contrast.cjs
+```
+
+(`tools/make-art.mjs` nicht mehr starten – es würde die Bilder mit den gezeichneten überschreiben.)
+
+## So bleiben die Bilder einheitlich
+
+- Den Stil-Vorspann bei jedem Bild wörtlich voranstellen.
+- Wenn der Generator es kann: denselben Seed bzw. das erste gelungene Bild als Stil-Referenz für alle weiteren.
+- Kann er keinen transparenten Hintergrund: „on a plain flat magenta background (#ff00ff)“ statt
+  „transparent background“ schreiben und danach freistellen.
+- `brittle-gold` aus `brittle` ableiten (Bild-zu-Bild / Edit), damit es derselbe Splitter ist.
+
+## Stil-Vorspann (für alle außer icon.png)
+
+```
+Hand-painted casual mobile game sprite, single chocolate confection, viewed from above at a
+slight 3/4 angle, soft studio light from top left, glossy highlights, rich saturated colours,
+clean silhouette, thick readable shapes, dark brown outline, no text, no plate, no paper cup,
+no cast shadow, centered, fills about 80% of the frame, transparent background, 1024x1024.
+```
+
+## Motive
+
+| Datei | Prompt (an den Vorspann anhängen) |
+| --- | --- |
+| `truffle-dark.png` | Round dark chocolate truffle dome with fine light-brown cocoa drizzle lines across the top. |
+| `nougat.png` | Square milk-chocolate nougat praline with rounded corners and one whole hazelnut on top. |
+| `coconut.png` | White chocolate ball densely coated in coconut flakes, clearly outlined so it reads on a cream background. |
+| `raspberry.png` | Heart-shaped raspberry praline with shiny pink glaze and a bright highlight. |
+| `pistachio.png` | Leaf-shaped green pistachio praline with a centre vein and chopped pistachio crumbs. |
+| `caramel.png` | Hexagonal golden caramel praline with white sea salt flakes on top. |
+| `brittle.png` | Rough broken shard of almond brittle, dark amber and brown, with visible almond pieces, jagged edges. |
+| `brittle-gold.png` | The same almond brittle shard, wrapped diagonally with a thin shiny gold foil band. |
+| `frost.png` | A ring of white frost and pale blue ice crystals only, with small icicle spikes; the centre is completely empty and transparent; the ring touches the frame edges. |
+
+## icon.png (deckend, kein Alpha)
+
+```
+Hand-painted casual mobile game app icon: a glossy pink heart-shaped raspberry praline sitting in
+an open dark-brown chocolate box with a thin gold trim, lid leaning back, viewed from above at a
+slight 3/4 angle, soft studio light from top left, rich saturated colours, thick readable shapes,
+no text, centered with generous margin, flat plain cream background #fbeee6, fully opaque,
+1024x1024.
+```
+
+## Worauf beim Aussuchen achten
+
+- Jede Sorte muss an **Form und Farbe** sofort erkennbar sein; im Spiel sind die Bilder 25–45 px groß.
+- Karamell (golden, Sechseck) und Krokant (dunkler, gezackt) dürfen sich nicht ähneln.
+- Kokos braucht eine dunkle Kontur, sonst verschwindet es auf dem hellen Papierförmchen
+  (`tools/contrast.cjs` misst das: „Rand“ sollte über 20 liegen).
+- Kein Schatten unter der Praline, nichts abgeschnitten, kein Text, kein Teller.
+- Der Frostring muss in der Mitte leer sein – dort stehen Sorte und Zahl.

diff --git a/README.md b/README.md
@@ -8,6 +8,8 @@
 - **Ablage:** Ein Teil zurücklegen oder tauschen.
 - **Krokant** blockiert Felder, **Eiskonfekt** schmilzt nach 9 Zügen zu Krokant.
 - **Tagesschachtel:** jeden Tag dieselbe Teilefolge für alle, eigener Bestwert.
+- **Blitzrunde:** 30 Züge auf Punkte, eigener Bestwert – die kurze Partie für zwischendurch.
+- **Erste Züge geführt:** Neue Spieler bekommen statt eines Regel-Dialogs vier Schritte am Spielfeld (legen, drehen, Reihe verpacken, Bestellung).
 - **Ränge und Schachtel-Designs** werden über die höchste erreichte Bestellung freigeschaltet.
 - **Tagesrunde:** Jeder Tag mit der Tagesschachtel zählt weiter (7 Tage = eine Runde, +1 ★ je Tag, +5 ★ am siebten). Ein verpasster Tag setzt nichts zurück.
 - **Tagesziele:** drei pro Tag, für alle gleich; Fortschritt zählt über alle Partien des Tages. Jedes Ziel bringt 1 ★, alle drei zusammen 2 ★ extra.
@@ -17,7 +19,7 @@
 
 Live: https://confiserie.micana.de
 
-Das Spiel ist eine einzige statische Seite ohne Build-Schritt und ohne externe Requests – es läuft nach dem ersten Aufruf komplett offline. Spielstände liegen im `localStorage`: `cs_best` (Bestwert), `cs_meta` (Rang, Design, Einstellungen, Sterne, Tagesziele, Tagesrunde, Auszeichnungen), `cs_run_saison` und `cs_run_tag` (laufende Partien). Dazu `cs_playtest` (Testprotokoll) und `cs_install_skip` (Zeitpunkt von „Im Browser weiterspielen“).
+Das Spiel ist eine einzige statische Seite ohne Build-Schritt und ohne externe Requests – es läuft nach dem ersten Aufruf komplett offline. Spielstände liegen im `localStorage`: `cs_best` (Bestwert), `cs_meta` (Rang, Design, Einstellungen, Sterne, Tagesziele, Tagesrunde, Auszeichnungen), `cs_run_saison`, `cs_run_tag` und `cs_run_blitz` (laufende Partien). Dazu `cs_playtest` (Testprotokoll) und `cs_install_skip` (Zeitpunkt von „Im Browser weiterspielen“).
 
 ## Aufbau
 
@@ -29,6 +31,7 @@ Das Spiel ist eine einzige statische Seite ohne Build-Schritt und ohne externe R
 | `fonts/` | Nunito 700/800/900, Playfair Display Italic 700 (SIL OFL 1.1, Lizenztexte liegen bei) |
 | `icons/` | App-Icons, erzeugt mit `tools/make-icons.mjs` |
 | `art/source/` | Quellbilder (PNG, 1024 px) für Sprites und Icon, gezeichnet von `tools/make-art.mjs` |
+| `art/PROMPTS.md` | Prompts, um die Quellbilder mit einem Bildgenerator als gemalte Fassung zu erzeugen |
 | `sprites/` | Pralinen-Sprites (WebP, 256 px), erzeugt mit `tools/make-sprites.mjs` |
 | `tools/` | Hilfsskripte; ihre Pakete stehen als devDependencies in `package.json` |
 | `.github/workflows/pages.yml` | Deployment auf GitHub Pages |

diff --git a/docs/playtest/2026-11-12-befunde.md b/docs/playtest/2026-11-12-befunde.md
@@ -84,3 +84,17 @@ Zellgröße danach: 390×844 → 41 px, 390×664 (Safari mit Leisten) → 35 px,
 
 **Zurückgenommen (gleicher Tag):** Rückmeldung „8×8 war schon besser“. Die Schachtel hat wieder 8×8 Felder;
 die höhenabhängige Breite, die höhere Teile-Ablage und die Sperre fürs Markieren bleiben.
+
+## Nachtrag: Umsetzung der offenen Punkte
+
+- **Befund 4 (Partien sind lang)** → **Umgesetzt:** Blitzrunde, 30 Züge auf Punkte, eigener Bestwert.
+- **Befund 3 (Zuglimit)** → weiter offen, bewusst. Der Bot lässt fast nie eine Bestellung platzen, ein
+  Screenshot vom iPhone zeigt aber schon bei Bestellung 2 ein verlorenes ♥. Für Menschen greift das
+  Limit also offenbar früher als für den Bot; verschärfen erst mit einem echten Protokoll.
+- **Erste Minute** → **Umgesetzt:** vier geführte Schritte am Spielfeld statt des Regel-Dialogs
+  (Protokoll-Ereignis `tut`).
+- **Rückmeldung im Zug** → **Umgesetzt:** Die Bestellleiste zeigt beim Ziehen, was der Zug bringt
+  („−3“); Lieferung lässt die Leiste aufleuchten; Vibration steigt mit der Serie.
+- **Lesbarkeit** → Krokant dunkler als Karamell, Zahl auf dem Eiskonfekt in der Ablage größer,
+  Teile in der Ablage etwas größer.
+- **Offen:** Menü scrollt bei 320×568 weiter (144 px); gemalte Sprites (Prompts in `art/PROMPTS.md`).
